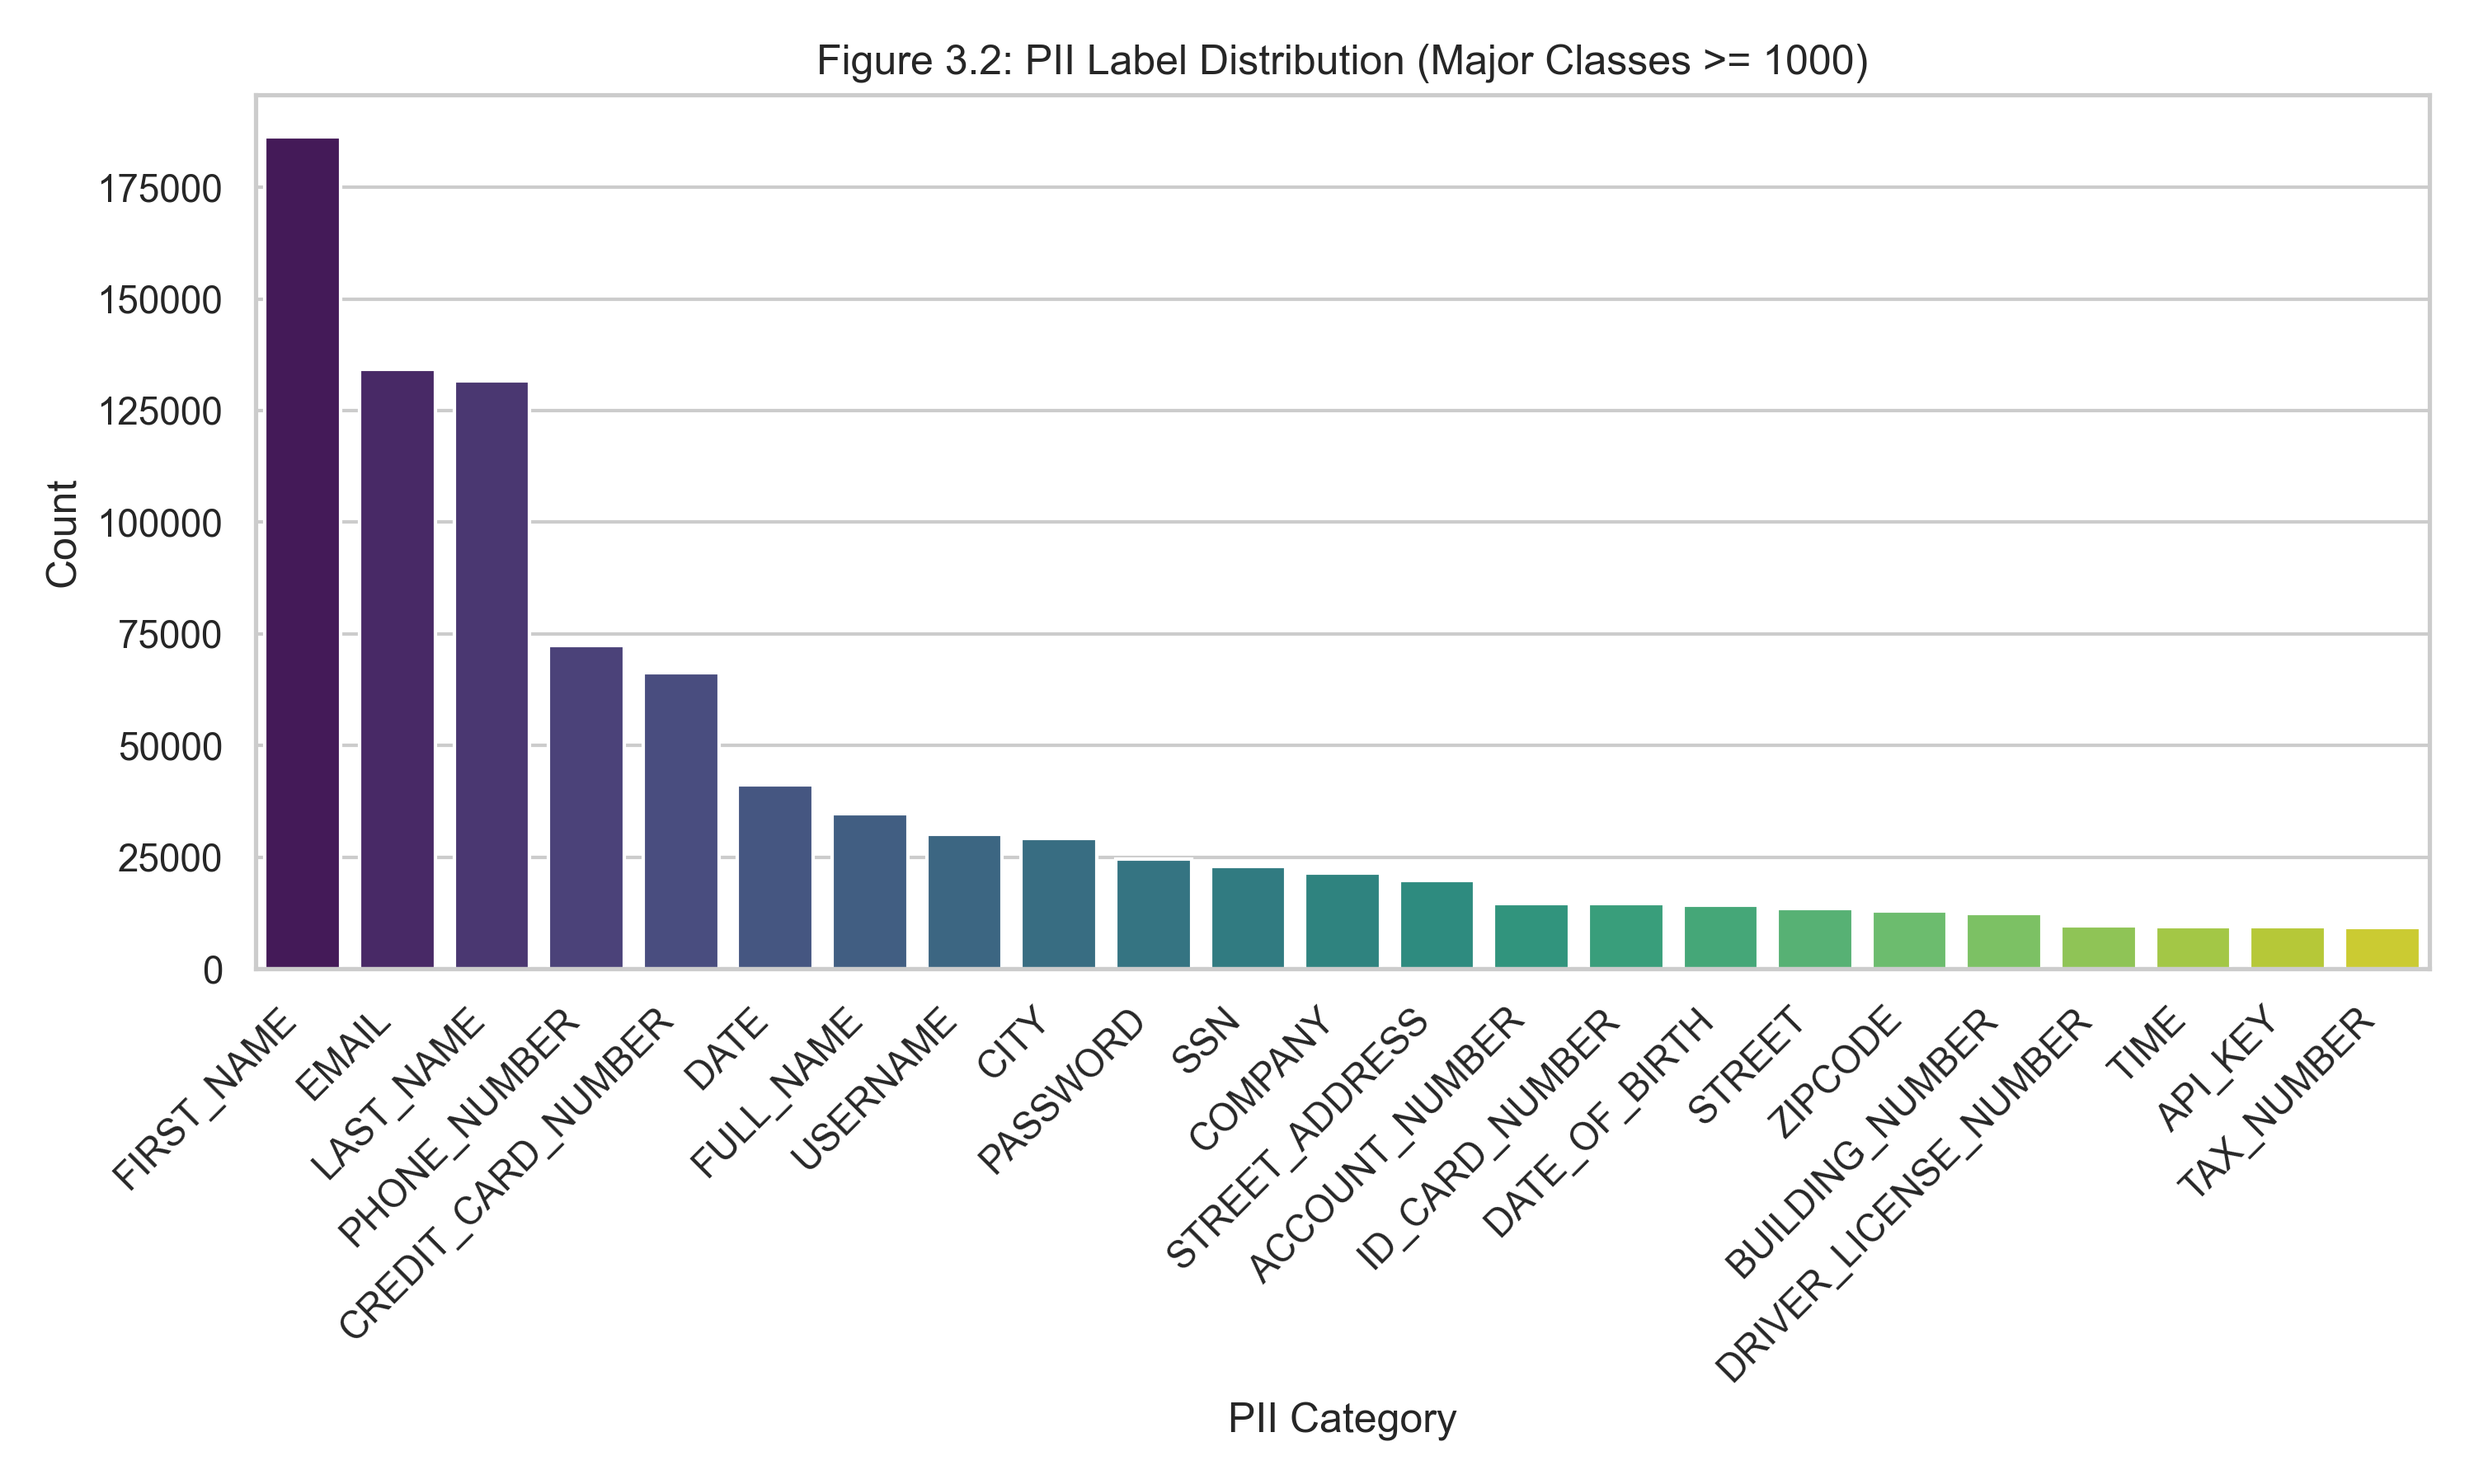
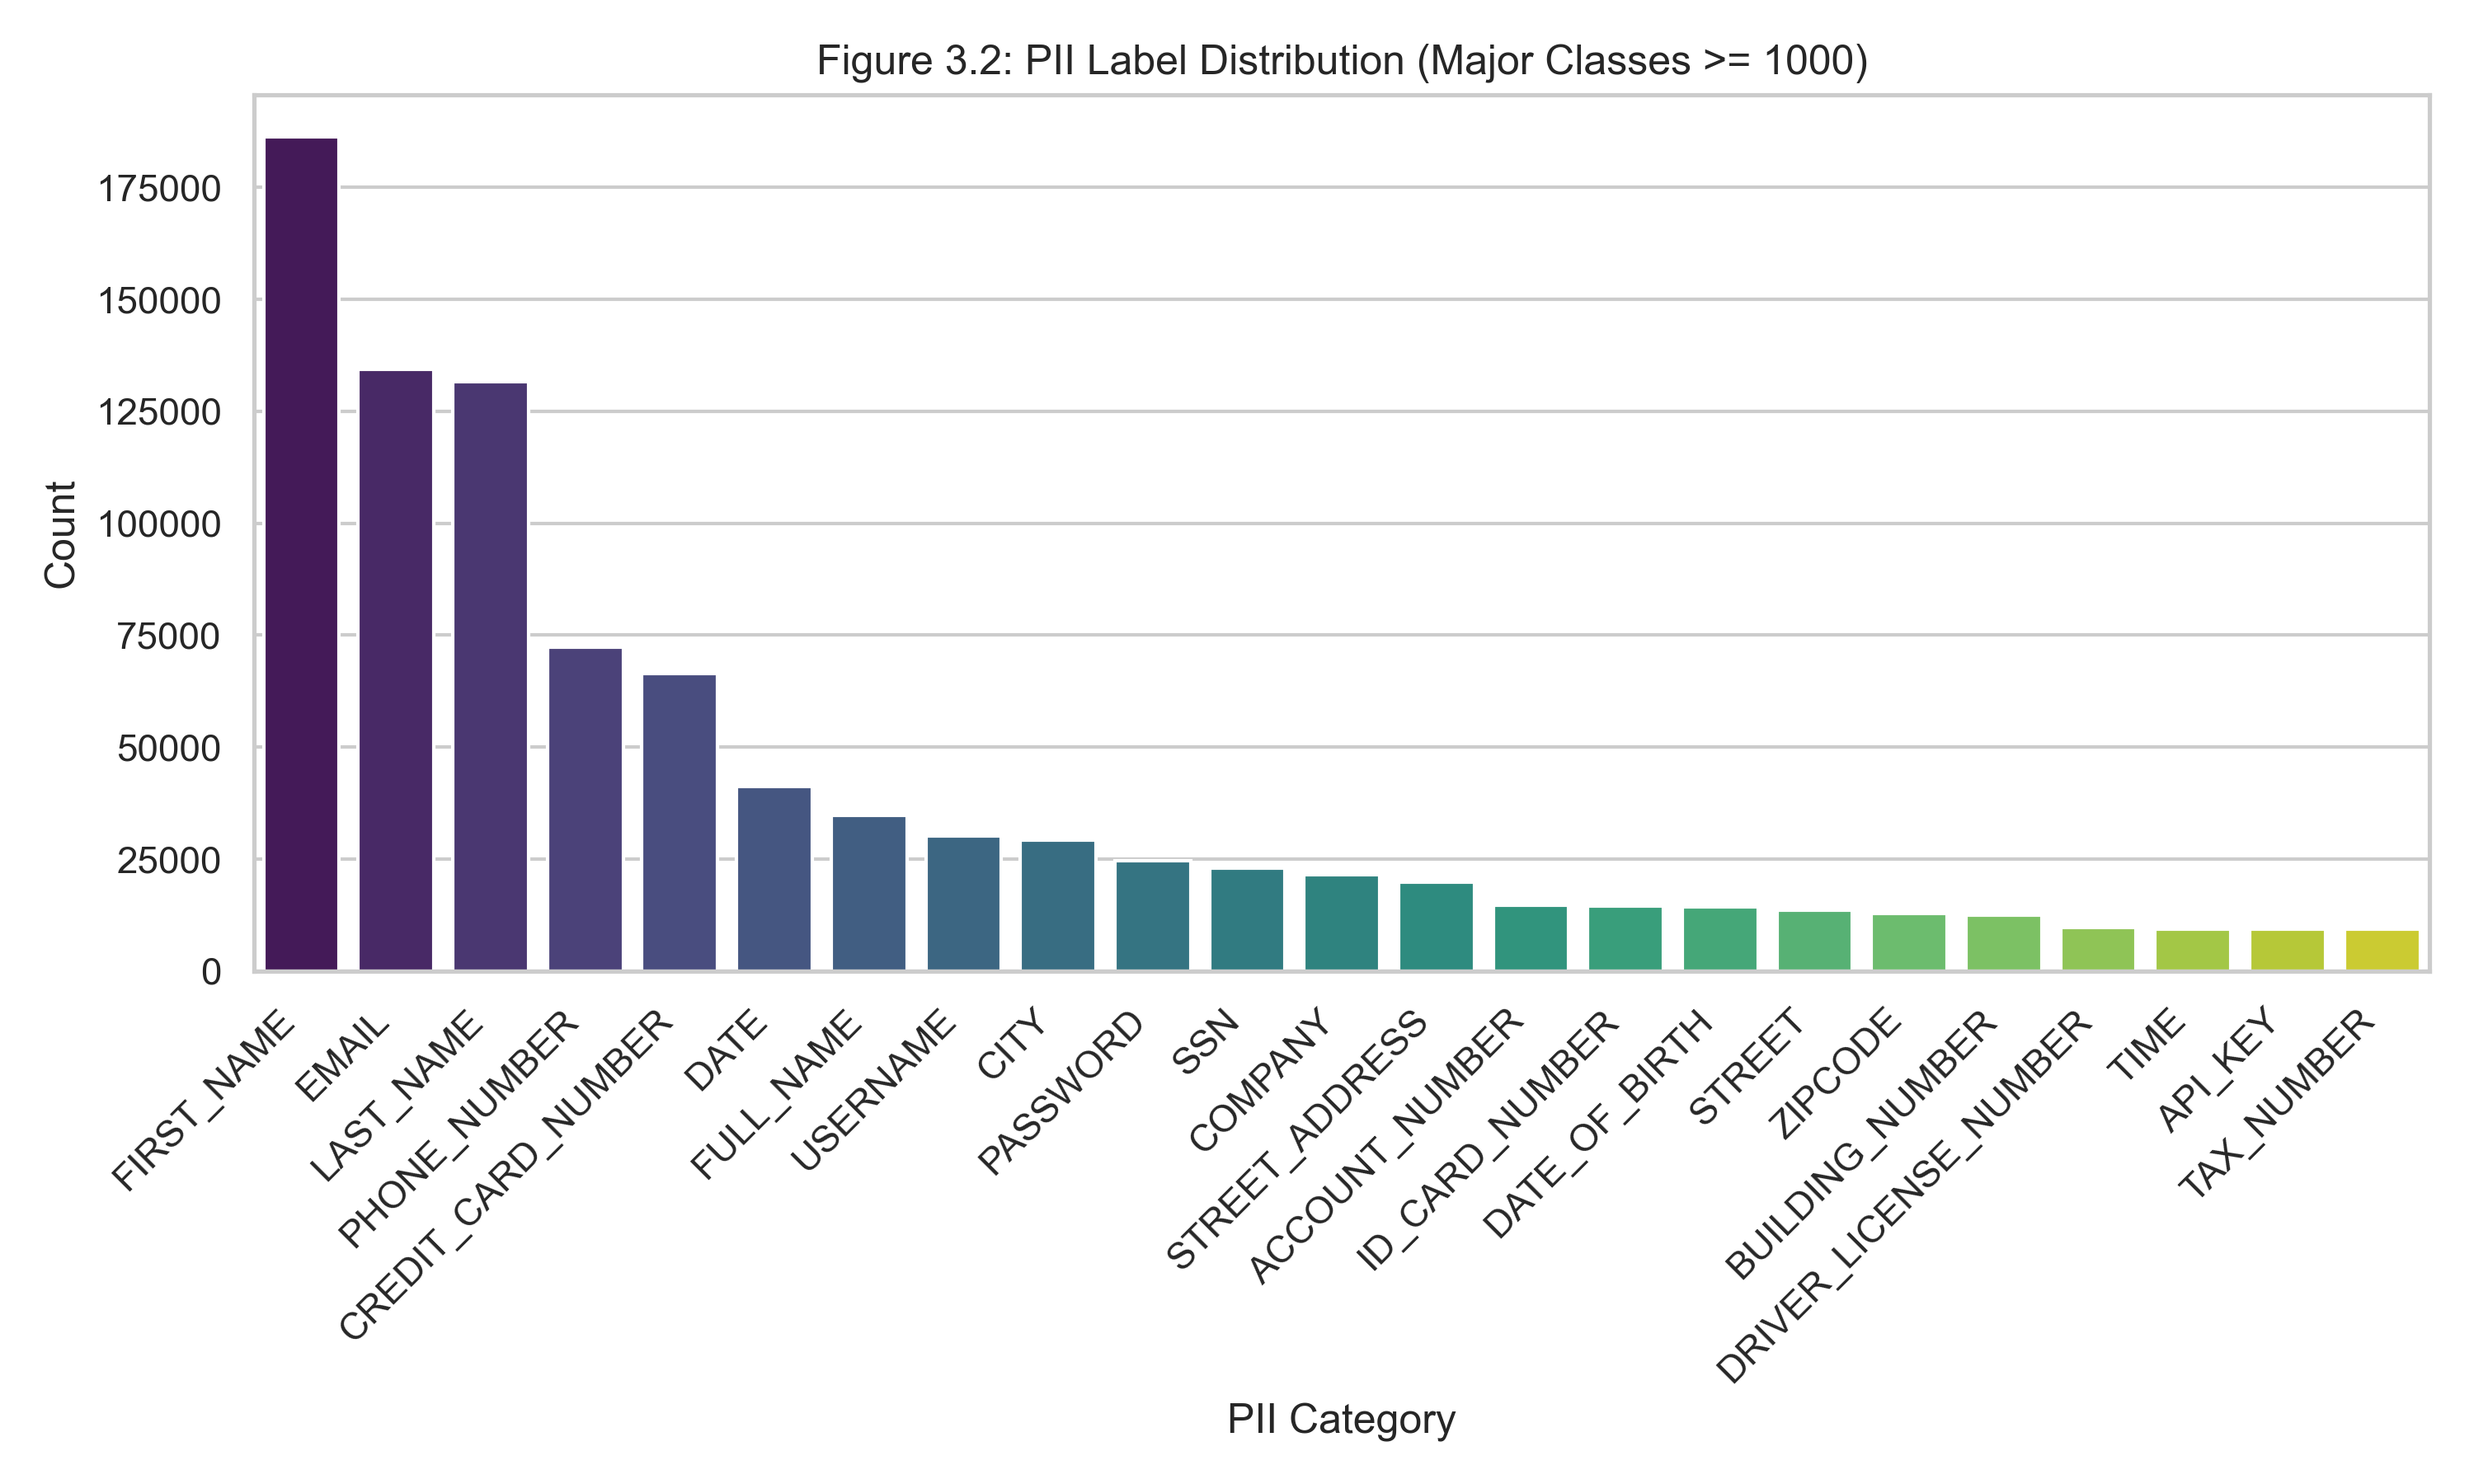
entity count

diff --git a/Data_behandling/data_loader_udvidelse.py b/Data_behandling/data_loader_udvidelse.py
@@ -1,11 +1,12 @@
 # Make sure 'data_loader.py' is in the same directory before running!
 # Requirements: pip install datasets pandas matplotlib seaborn
 
-import pandas as pd
 import matplotlib.pyplot as plt
+import pandas as pd
 import seaborn as sns
 
 from data_loader import load_combined_dataset
+
 
 def main():
     # ==========================================
@@ -20,27 +21,28 @@ def main():
     print("Performing data engineering...")
 
     # Store metadata before transformation
-    df['tags_per_msg'] = df['privacy'].apply(len)
-    df['msg_length'] = df['source_text'].str.len()
+    df["tags_per_msg"] = df["privacy"].apply(len)
+    df["msg_length"] = df["source_text"].str.len()
 
     # Transformation: Explode nested JSON lists into separate rows
-    df_flat = df.explode('privacy').reset_index(drop=True)
-    df_flat = df_flat.dropna(subset=['privacy']).reset_index(drop=True)
-    pii_details = pd.json_normalize(df_flat['privacy'])
+    df_flat = df.explode("privacy").reset_index(drop=True)
+    df_flat = df_flat.dropna(subset=["privacy"]).reset_index(drop=True)
+    pii_details = pd.json_normalize(df_flat["privacy"])
 
     # Assemble final dataframe
-    df_final = pd.concat([
-        df_flat[['source_text', 'tags_per_msg', 'msg_length']],
-        pii_details
-    ], axis=1)
+    df_final = pd.concat(
+        [df_flat[["source_text", "tags_per_msg", "msg_length"]], pii_details], axis=1
+    )
 
     # Sanitization: Clean PII values
-    df_final['value'] = df_final['value'].astype(str).str.replace('|', '', regex=False).str.strip()
-    df_final = df_final.dropna(subset=['label', 'value'])
-    df_final = df_final[df_final['value'] != ""]
+    df_final["value"] = (
+        df_final["value"].astype(str).str.replace("|", "", regex=False).str.strip()
+    )
+    df_final = df_final.dropna(subset=["label", "value"])
+    df_final = df_final[df_final["value"] != ""]
 
     # PII value lengths (used for optional analysis)
-    df_final['value_len'] = df_final['value'].str.len()
+    df_final["value_len"] = df_final["value"].str.len()
 
     # ==========================================
     # 3. GENERATE FIGURES FOR THE REPORT
@@ -54,7 +56,9 @@ def main():
     print("Generating label distributions...")
 
     # Count all observations per label
-    label_counts = df_final['label'].value_counts()
+    label_counts = df_final["label"].value_counts()
+
+    print(label_counts.to_string())
 
     # Split into two groups based on threshold (1000)
     major_labels = label_counts[label_counts >= 1000]
@@ -62,13 +66,13 @@ def main():
 
     if not major_labels.empty:
         plt.figure(figsize=(10, 6))
-        sns.barplot(y=major_labels.values, x=major_labels.index, palette='viridis')
-        plt.title('Figure 3.2: PII Label Distribution (Major Classes >= 1000)')
-        plt.ylabel('Count')
-        plt.xlabel('PII Category')
-        plt.xticks(rotation=45, ha='right')
+        sns.barplot(y=major_labels.values, x=major_labels.index, palette="viridis")
+        plt.title("Figure 3.2: PII Label Distribution (Major Classes >= 1000)")
+        plt.ylabel("Count")
+        plt.xlabel("PII Category")
+        plt.xticks(rotation=45, ha="right")
         plt.tight_layout()
-        plt.savefig('figure_3_2_label_distribution_major.png', dpi=300)
+        plt.savefig("figure_3_2_label_distribution_major.png", dpi=300)
         plt.close()
         print("  -> figure_3_2_label_distribution_major.png saved")
     else:
@@ -79,13 +83,13 @@ def main():
     # ==========================================
     if not minor_labels.empty:
         plt.figure(figsize=(10, 4))
-        sns.barplot(y=minor_labels.values, x=minor_labels.index, palette='magma')
-        plt.title('Figure 3.3: PII Label Distribution (Minor Classes < 1000)')
-        plt.ylabel('Count')
-        plt.xlabel('PII Category')
-        plt.xticks(rotation=45, ha='right')
+        sns.barplot(y=minor_labels.values, x=minor_labels.index, palette="magma")
+        plt.title("Figure 3.3: PII Label Distribution (Minor Classes < 1000)")
+        plt.ylabel("Count")
+        plt.xlabel("PII Category")
+        plt.xticks(rotation=45, ha="right")
         plt.tight_layout()
-        plt.savefig('figure_3_3_label_distribution_minor.png', dpi=300)
+        plt.savefig("figure_3_3_label_distribution_minor.png", dpi=300)
         plt.close()
         print("  -> figure_3_3_label_distribution_minor.png saved")
     else:
@@ -94,7 +98,7 @@ def main():
     # ==========================================
     # 4. SUMMARY
     # ==========================================
-    print(f"\nSummary:")
+    print("\nSummary:")
     print(f"  Total rows in dataset:        {len(df):,}")
     print(f"  Total PII entities (flat):    {len(df_final):,}")
     print(f"  Unique PII labels:            {df_final['label'].nunique()}")
@@ -103,6 +107,7 @@ def main():
     print("\nDone! The following images are now saved in the working directory:")
     print("  - figure_3_2_label_distribution_major.png")
     print("  - figure_3_3_label_distribution_minor.png")
+
 
 if __name__ == "__main__":
     main()

diff --git a/Data_behandling/Data_illustrationer.py b/Data_behandling/Data_illustrationer.py
@@ -17,7 +17,7 @@ def plot_label_distribution(df_flat):
     label_counts = df_flat['label'].value_counts()
     
     # Byg et Bar Chart
-    ax = sns.barplot(x=label_counts.values, y=label_counts.index, palette="viridis")
+    ax = sns.barplot(x=label_counts.values, y=label_counts.index, hue=label_counts.index, palette="viridis", legend=False)
     
     plt.title("Fordeling af PII-Entiteter i det Kombinerede Datasæt", fontsize=16)
     plt.xlabel("Antal Forekomster", fontsize=12)
@@ -90,10 +90,12 @@ def plot_document_lengths(df):
     print("Gemte 'document_lengths.png'")
     plt.close()
 
+from data_loader import load_combined_dataset
+
 def main():
     print("Indlæser det faste, lokalt gemte datasæt...")
-    # Sørg for at filen ligger i samme mappe, eller angiv den korrekte sti
-    df = pd.read_parquet("combined_pii_dataset.parquet")
+    # Loader fra pre-defineret data loader
+    df = load_combined_dataset()
     
     # For label distribution har vi brug for at 'explode' privacy kolonnen
     # så vi har én række pr. label, i stedet for en liste af dicts pr. tekst
